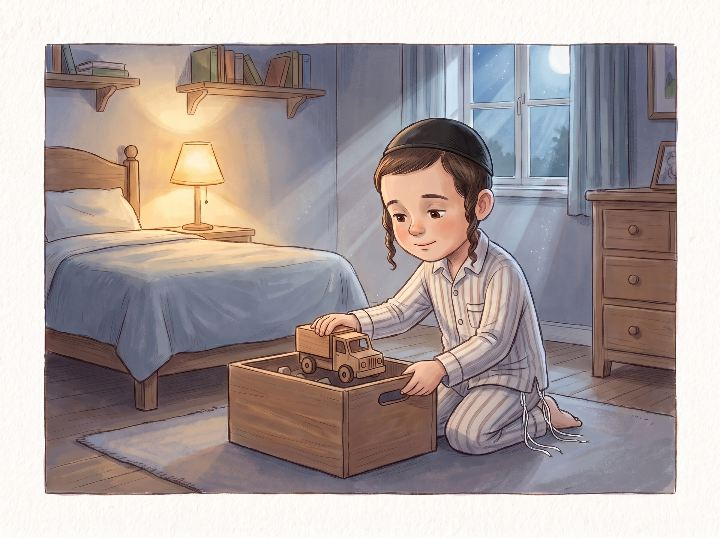
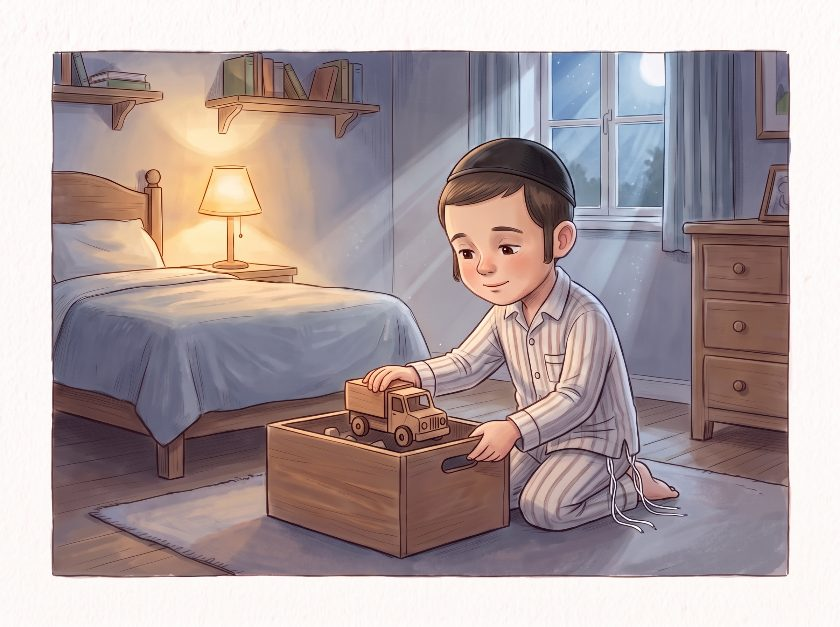
Compact Halacha lessons and enable Chabad picture/text scrapbook reuse (#189)
* Replace long-peyos illustrations with Chabad boys and visible tzitzis

* Collapse full Kitzur by default and add compact lesson navigation and scrapbook phrase actions

* Allow Halacha scene pictures and captions to be added to scrapbook

* Compact Halacha heading and hide complete Kitzur until clicked

* Compact picture cards and scrapbook copy actions

* Load updated compact Halacha lesson and fresh Chabad art rather than stale caches

* Cache-bust the compact Halacha stylesheet

* Cover scene-to-scrapbook actions and new image cache version

* Regress default-closed Kitzur and compact scene-to-scrapbook workflow

diff --git a/halacha/seif-a-teacher-led.js b/halacha/seif-a-teacher-led.js
@@ -47,42 +47,64 @@
       window.add(ROOT_ID, 'textbox', `<div class="tb-text" contenteditable="true" data-ph="Edit your title">${escapeText(title)}</div>`);
     }
   }
+  function addScrapbookText(value, rightToLeft) {
+    if (typeof HALACHA_TEACHER_VIEW !== 'undefined' && HALACHA_TEACHER_VIEW) return;
+    if (typeof window.add !== 'function') return;
+    const phrase = escapeText(String(value || '').trim());
+    if (!phrase) return;
+    const rtl = rightToLeft ? ' dir="rtl" lang="he"' : '';
+    const e = window.add(ROOT_ID, 'textbox', '<div class="tb-text" contenteditable="true"'+rtl+'>'+phrase+'</div>');
+    if (e) {
+      e.classList.add('hal-lesson-text-piece');
+      e.style.width = '280px';
+      if (typeof window.persist === 'function') window.persist(ROOT_ID);
+    }
+  }
   function start() {
     const section = document.getElementById(ROOT_ID);
     if (!section || section.querySelector('.hal-a-panel')) return;
     if (!document.querySelector('link[data-hal-a-style]')) {
       const stylesheet = document.createElement('link');
       stylesheet.rel = 'stylesheet';
-      stylesheet.href = 'seif-a-teacher-led.css?v=20261018-2';
+      stylesheet.href = 'seif-a-teacher-led.css?v=20261019-compact1';
       stylesheet.dataset.halAStyle = 'true';
       document.head.appendChild(stylesheet);
     }
     const panel = make('section', 'hal-a-panel');
     panel.setAttribute('aria-label', 'Learn Siman Aleph Seif Aleph with your teacher');
     const heading = make('div', 'hal-a-heading');
-    const title = make('h2', '', 'סִימָן א׳ · סְעִיף א׳ — Learn Together');
-    const hide = button('Hide Activity · Make room for my scrapbook', () => {
+    const title = make('h2', '', 'סִימָן א׳ · סְעִיף א׳');
+    const hide = button('Hide lesson', () => {
       const collapsed = panel.classList.toggle('hal-a-collapsed');
-      hide.textContent = collapsed ? 'Show / Review Activity' : 'Hide Activity · Make room for my scrapbook';
+      hide.textContent = collapsed ? 'Show lesson' : 'Hide Activity · Make room for my scrapbook';
       hide.setAttribute('aria-expanded', String(!collapsed));
       try { sessionStorage.setItem('halacha-learning-hidden:a:' + (document.body.classList.contains('teacherMode') ? 'teacher' : 'student'), String(collapsed)); } catch (_) {}
     });
     hide.setAttribute('aria-expanded', 'true');
-    heading.append(title, hide);
+    const jumps = make('nav', 'hal-a-jumps');
+    jumps.setAttribute('aria-label', 'Jump to Halacha section');
+    jumps.append(
+      button('🖼 Pictures', () => section.querySelector('.hal-story-gallery, .hal-a-scenarios')?.scrollIntoView({behavior:'smooth',block:'start'})),
+      button('🎨 Scrapbook', () => section.querySelector('.work')?.scrollIntoView({behavior:'smooth',block:'start'}))
+    );
+    heading.append(title, jumps, hide);
     panel.appendChild(heading);
 
     const body = make('div', 'hal-a-body');
     const source = make('div', 'hal-a-source');
     const reading = document.createElement('details');
     reading.className = 'hal-a-reading';
-    reading.open = true;
-    const readingTitle = make('summary', '', 'Read the complete seif with your teacher');
+    reading.open = false;
+    const readingTitle = make('summary', '', '📖 Full Kitzur text — click to read');
     const fullText = make('p', 'hal-a-full-text', sourceText);
     fullText.lang = 'he';
     fullText.dir = 'rtl';
     reading.append(readingTitle, fullText);
+    source.appendChild(make('p', 'hal-a-short-intro', 'Remembering Hashem helps us speak and behave carefully — at home, outside and when alone.'));
     source.appendChild(reading);
-
+    const useThought = button('＋ Put this idea in my scrapbook', () => addScrapbookText('Remembering Hashem helps me act with care wherever I am.'));
+    useThought.classList.add('hal-a-add-text');
+    source.appendChild(useThought);
     source.append(make('h3', '', 'Important phrases — tap a word to see its meaning'));
     const phraseList = make('div', 'hal-a-phrase-list');
     for (const phrase of phrases) {
@@ -105,6 +127,9 @@
         words.appendChild(chip);
       }
       details.appendChild(words);
+      const savePhrase = button('＋ Add this phrase to my scrapbook', () => addScrapbookText(phrase.he, true));
+      savePhrase.classList.add('hal-a-add-text');
+      details.appendChild(savePhrase);
       phraseList.appendChild(details);
     }
     source.appendChild(phraseList);
@@ -114,7 +139,9 @@
     quiz.setAttribute('aria-labelledby', 'hal-a-question-title');
     const qTitle = make('h3', '', 'Which picture shows the lesson?');
     qTitle.id = 'hal-a-question-title';
-    quiz.append(qTitle, make('p', 'hal-a-note', 'We try to act thoughtfully at home and at school, even when we are alone.'));
+    const quizBody = make('details', 'hal-a-quiz-details');
+    quizBody.appendChild(make('summary', '', '❓ Try a picture question'));
+    quizBody.append(qTitle, make('p', 'hal-a-note', 'We try to act thoughtfully at home and at school, even when we are alone.'));
     const feedback = make('p', 'hal-a-feedback', '');
     feedback.setAttribute('role', 'status');
     feedback.setAttribute('aria-live', 'polite');
@@ -136,11 +163,12 @@
       choice.append(art, make('span', 'hal-a-choice-label', `Picture ${index + 1}`));
       choices.appendChild(choice);
     });
-    quiz.append(choices, feedback);
+    quizBody.append(choices, feedback);
+    quiz.appendChild(quizBody);
     body.appendChild(quiz);
 
-    const prompt = make('section', 'hal-a-prompts');
-    prompt.append(make('h3', '', 'Choose a scrapbook title'));
+    const prompt = make('details', 'hal-a-prompts');
+    prompt.appendChild(make('summary', '', '✏ Add a title to my scrapbook'));
     prompt.append(make('p', 'hal-a-note', 'Pick a title and edit it on your page, or write your own. Your artwork stays yours to create.'));
     const menu = make('div', 'hal-a-prompt-grid');
     ideas.forEach(idea => menu.appendChild(button(idea, () => addTitle(idea))));

diff --git a/halacha/illustrated-seif-a.js b/halacha/illustrated-seif-a.js
@@ -30,7 +30,7 @@
   }
   function image(file, alt, cls) {
     var im = node('img', cls || '');
-    im.src = file + '?v=20261018-art2';
+    im.src = file + '?v=20261019-chabad1';
     im.alt = alt;
     im.loading = 'lazy';
     im.decoding = 'async';
@@ -38,6 +38,31 @@
   }
   function isReadonly() {
     return typeof HALACHA_TEACHER_VIEW !== 'undefined' && !!HALACHA_TEACHER_VIEW;
+  }
+  function sayAdded(label) {
+    var status = document.querySelector('.hal-art-status');
+    if (status) status.textContent = 'Added ' + label + ' to your scrapbook ✓';
+  }
+  function addPicture(file, label) {
+    if (isReadonly() || typeof window.add !== 'function') return;
+    var markup = '<img src="' + file + '?v=20261019-chabad1" alt="' + htmlEscape(label) + '">';
+    var piece = window.add('a', 'photo', markup, 0);
+    if (piece) {
+      piece.classList.add('hal-illustrated-piece', 'studio-sticker');
+      piece.style.width = '175px';
+      if (typeof window.persist === 'function') window.persist('a');
+      sayAdded(label + ' picture');
+    }
+  }
+  function addWords(words) {
+    if (isReadonly() || typeof window.add !== 'function') return;
+    var piece = window.add('a', 'textbox', '<div class="tb-text" contenteditable="true">' + htmlEscape(words) + '</div>', 0);
+    if (piece) {
+      piece.classList.add('hal-lesson-text-piece');
+      piece.style.width = '260px';
+      if (typeof window.persist === 'function') window.persist('a');
+      sayAdded('words');
+    }
   }
   function installArt() {
     var section = document.getElementById('a');
@@ -58,15 +83,44 @@
       info.appendChild(node('strong', '', item.title));
       info.appendChild(node('span', '', item.caption));
       card.appendChild(info);
+      var actions = node('div', 'hal-story-actions');
+      var useImage = node('button', 'hal-story-use', '＋ Picture');
+      useImage.type = 'button';
+      useImage.disabled = isReadonly();
+      useImage.setAttribute('aria-label', 'Add ' + item.title + ' picture to scrapbook');
+      useImage.addEventListener('click', function () { addPicture(SCENE_BASE + item.file + '.jpg', item.title); });
+      var useWords = node('button', 'hal-story-use', '＋ Words');
+      useWords.type = 'button';
+      useWords.disabled = isReadonly();
+      useWords.setAttribute('aria-label', 'Add ' + item.caption + ' to scrapbook');
+      useWords.addEventListener('click', function () { addWords(item.caption); });
+      actions.append(useImage, useWords);
+      card.appendChild(actions);
       grid.appendChild(card);
     });
     gallery.appendChild(grid);
     galleryHost.insertBefore(gallery, galleryHost.firstChild);
+    var status = node('p', 'hal-art-status');
+    status.setAttribute('role','status');
+    status.setAttribute('aria-live','polite');
+    gallery.appendChild(status);
     // Maintain the existing correct/incorrect choice controls and their feedback.
     var choices = galleryHost.querySelectorAll('.hal-a-choice .hal-a-scene-art');
     if (choices.length >= 2) {
       choices[0].replaceChildren(image(SCENE_BASE + 'helping.jpg', 'A boy helping carefully at home'));
       choices[1].replaceChildren(image(SCENE_BASE + 'messy.jpg', 'A boy leaving toys scattered'));
+      var qHolder = galleryHost.querySelector('.hal-a-quiz-details');
+      if (qHolder) {
+        var pictureRow = node('div', 'hal-story-actions');
+        [['helping','Picture 1'], ['messy','Picture 2']].forEach(function (pair) {
+          var button = node('button', 'hal-story-use', '＋ Use ' + pair[1] + ' in scrapbook');
+          button.type = 'button';
+          button.disabled = isReadonly();
+          button.addEventListener('click', function () { addPicture(SCENE_BASE + pair[0] + '.jpg', pair[1]); });
+          pictureRow.appendChild(button);
+        });
+        qHolder.appendChild(pictureRow);
+      }
     }
     var shelf = node('section', 'hal-sticker-shelf');
     shelf.setAttribute('aria-label', 'Illustrated scrapbook stickers');
@@ -83,7 +137,7 @@
       b.setAttribute('aria-label', 'Add ' + label + ' sticker to scrapbook');
       b.addEventListener('click', function () {
         if (isReadonly() || typeof window.add !== 'function') return;
-        var tag = '<img alt="' + htmlEscape(label) + '" src="' + file + '?v=20261018-art2">';
+        var tag = '<img alt="' + htmlEscape(label) + '" src="' + file + '?v=20261019-chabad1">';
         var piece = window.add('a', 'photo', tag, 0);
         if (piece) {
           piece.classList.add('studio-sticker', 'clear', 'hal-illustrated-piece');

diff --git a/halacha/index.html b/halacha/index.html
@@ -1000,6 +1000,6 @@ window.addEventListener("afterprint",()=>{
  });
 });
 
-</script><div id="exportDlg" role="dialog" aria-label="Print or export"><div class="box"><h3>🖨 Print / PDF / Slides</h3><div><label><input type="checkbox" id="expAll" onchange="document.querySelectorAll('.expSec').forEach(c=>c.checked=this.checked)"> All sections</label><div id="expList"></div></div><div class="row"><button onclick="printSelected()">🖨 Print / Save as PDF</button><button onclick="exportSlides()">📊 Download slides</button></div><div class="row"><button class="ghost" onclick="closeExport()">Cancel</button></div><div class="msg" id="expMsg"></div><p style="margin:6px 0 0;font-size:12px;color:#567">Slides download as a PowerPoint file. To use Google Slides: upload it to Google Drive and open it with Google Slides.</p></div></div><div id="pieceCustomizer" class="piece-customizer"><div class="pc-title">Customize this piece</div><div class="pc-row"><label>Font</label><select id="pcFont" onchange="applyPieceStyle()"><option value="Arial, sans-serif">Arial</option><option value="Georgia, serif">Book</option><option value="'Comic Sans MS', cursive">Playful</option><option value="'Trebuchet MS', sans-serif">Rounded</option><option value="'Times New Roman', serif">Classic</option></select></div><div class="pc-row"><label>Text</label><input id="pcText" type="color" value="#243746" oninput="applyPieceStyle()"><label>Background</label><input id="pcBg" type="color" value="#fff1b8" oninput="applyPieceStyle()"></div><div class="pc-row"><label>Text size</label><input id="pcFontSize" type="range" min="12" max="42" value="18" oninput="applyPieceStyle()"><span id="pcFontSizeVal">18</span></div><div class="pc-row"><button onclick="transparentPiece()">No background</button><button onclick="resetPieceStyle()">Reset</button><button onclick="closeCustomizer()">Done ✓</button></div></div><link rel="stylesheet" href="illustrated-seif-a.css?v=20261018-art3"><script src="seif-a-teacher-led.js?v=20261018-1"></script><script src="scrapbook-editor.js?v=20261012-studio-shapes-5"></script><script src="illustrated-seif-a.js?v=20261018-art3"></script><script src="gallery.js?v=20261007-tab-login"></script><script defer src="../class-pointer-prototype/activity-share.js?v=20261018-myscreen175"></script>
+</script><div id="exportDlg" role="dialog" aria-label="Print or export"><div class="box"><h3>🖨 Print / PDF / Slides</h3><div><label><input type="checkbox" id="expAll" onchange="document.querySelectorAll('.expSec').forEach(c=>c.checked=this.checked)"> All sections</label><div id="expList"></div></div><div class="row"><button onclick="printSelected()">🖨 Print / Save as PDF</button><button onclick="exportSlides()">📊 Download slides</button></div><div class="row"><button class="ghost" onclick="closeExport()">Cancel</button></div><div class="msg" id="expMsg"></div><p style="margin:6px 0 0;font-size:12px;color:#567">Slides download as a PowerPoint file. To use Google Slides: upload it to Google Drive and open it with Google Slides.</p></div></div><div id="pieceCustomizer" class="piece-customizer"><div class="pc-title">Customize this piece</div><div class="pc-row"><label>Font</label><select id="pcFont" onchange="applyPieceStyle()"><option value="Arial, sans-serif">Arial</option><option value="Georgia, serif">Book</option><option value="'Comic Sans MS', cursive">Playful</option><option value="'Trebuchet MS', sans-serif">Rounded</option><option value="'Times New Roman', serif">Classic</option></select></div><div class="pc-row"><label>Text</label><input id="pcText" type="color" value="#243746" oninput="applyPieceStyle()"><label>Background</label><input id="pcBg" type="color" value="#fff1b8" oninput="applyPieceStyle()"></div><div class="pc-row"><label>Text size</label><input id="pcFontSize" type="range" min="12" max="42" value="18" oninput="applyPieceStyle()"><span id="pcFontSizeVal">18</span></div><div class="pc-row"><button onclick="transparentPiece()">No background</button><button onclick="resetPieceStyle()">Reset</button><button onclick="closeCustomizer()">Done ✓</button></div></div><link rel="stylesheet" href="illustrated-seif-a.css?v=20261019-compact1"><script src="seif-a-teacher-led.js?v=20261019-compact1"></script><script src="scrapbook-editor.js?v=20261012-studio-shapes-5"></script><script src="illustrated-seif-a.js?v=20261019-chabad1"></script><script src="gallery.js?v=20261007-tab-login"></script><script defer src="../class-pointer-prototype/activity-share.js?v=20261018-myscreen175"></script>
 </body></html>
 

diff --git a/halacha/seif-a-teacher-led.css b/halacha/seif-a-teacher-led.css
@@ -73,3 +73,35 @@ main:has(.section.on .hal-a-panel.hal-a-collapsed){max-width:1600px}
 .section#a .hal-a-panel.hal-a-collapsed{background:#edf5ff;border:1px solid #b5d9f5;padding:10px 14px}
 @media(max-width:800px){.section#a .hal-a-source{padding:12px}.section#a .hal-a-choices{grid-template-columns:repeat(2,minmax(0,1fr))}.section#a .work{padding:7px}}
 @media(max-width:520px){.section#a .hal-a-choices{grid-template-columns:1fr}}
+
+/* Compact teacher-led lesson: keep the workspace visible without hiding actual content. */
+.section#a .hal-a-panel{margin:3px 0 8px}
+.section#a .hal-a-heading{position:sticky;top:0;z-index:28;display:flex;flex-wrap:wrap;gap:6px;padding:6px 8px;background:#f9fcfffa;border:1px solid #d7e8f6;border-radius:11px;box-shadow:0 2px 8px #2447650f}
+.section#a .hal-a-heading h2{font-size:clamp(17px,1.8vw,23px);margin:0;line-height:1.25}
+.section#a .hal-a-heading>.hal-a-btn{font-size:13px;padding:7px 10px;border-radius:9px;min-width:0}
+.section#a .hal-a-jumps{display:flex;flex-wrap:wrap;gap:6px;margin-left:auto}
+.section#a .hal-a-jumps .hal-a-btn{font-size:13px;padding:7px 10px;white-space:nowrap}
+.section#a .hal-a-source{padding:10px 12px}
+.section#a .hal-a-source:before{font-size:17px;margin:0 0 6px}
+.section#a .hal-a-short-intro{margin:0 0 6px;color:#263e58;line-height:1.4;font-size:15px}
+.section#a .hal-a-reading{margin:5px 0 7px}
+.section#a .hal-a-reading>summary{font-size:15px;padding:9px 12px}
+.section#a .hal-a-full-text{font-size:23px;line-height:1.75;padding:12px 16px}
+.section#a .hal-a-add-text{padding:6px 9px;font-size:12px;background:#eef8ff;border:1px solid #b9d7f0;color:#20516f;border-radius:8px}
+.section#a .hal-a-source>h3{font-size:17px;padding:8px 11px;margin:9px 0 0}
+.section#a .hal-a-phrase-list{padding:8px;gap:8px}
+.section#a .hal-a-phrase{padding:0 9px 8px}
+.section#a .hal-a-phrase>summary{font-size:19px;padding:7px 0;line-height:1.5}
+.section#a .hal-a-words .hal-a-btn{font-size:14px;padding:6px 8px}
+.section#a .hal-a-scenarios{padding:10px 12px;margin-top:8px}
+.section#a .hal-a-quiz-details{margin-top:7px;border-top:1px solid #c3decf;padding:8px 0 0}
+.section#a .hal-a-quiz-details>summary,.section#a .hal-a-prompts>summary{cursor:pointer;font-size:15px;font-weight:850;color:#194a68;padding:6px;list-style-position:inside}
+.section#a .hal-a-quiz-details h3{font-size:17px;margin:9px 0 5px}
+.section#a .hal-a-prompts{margin-top:8px;padding:9px 12px}
+.section#a .hal-a-prompts>summary{color:#63466d}
+.section#a .hal-a-prompts .hal-a-prompt-grid{margin-top:8px}
+.section#a .hal-a-prompts .hal-a-btn{font-size:13px;padding:7px 9px}
+.section#a .hal-a-collapsed .hal-a-heading{padding:4px 8px}
+.section#a .work{scroll-margin-top:75px}
+.section#a .hal-story-gallery{scroll-margin-top:75px}
+@media(max-width:670px){.section#a .hal-a-heading{position:relative}.section#a .hal-a-jumps{margin-left:0}.section#a .hal-a-heading h2{width:100%}.section#a .hal-a-jumps .hal-a-btn{padding:6px 8px}}

diff --git a/halacha/illustrated-seif-a.css b/halacha/illustrated-seif-a.css
@@ -30,3 +30,20 @@
 @media print {
  .section#a .hal-sticker-shelf {display:none!important}
 }
+
+/* Add a picture or its words to the student's actual scrapbook. */
+.section#a .hal-story-grid{gap:8px}
+.section#a .hal-story-gallery{margin-bottom:9px}
+.section#a .hal-story-gallery>h3{font-size:17px;margin:0 0 7px}
+.section#a .hal-story-card img{aspect-ratio:3/2;object-fit:cover}
+.section#a .hal-story-card figcaption{padding:6px 8px;gap:3px}
+.section#a .hal-story-card strong{font-size:14px}
+.section#a .hal-story-card span{font-size:12px}
+.section#a .hal-story-actions{display:flex;gap:5px;justify-content:space-evenly;flex-wrap:wrap;padding:5px 7px 8px}
+.section#a .hal-story-use{cursor:pointer;flex:1 1 auto;border:1px solid #9dc8bb;border-radius:7px;padding:6px 4px;background:#f1fff7;color:#24584c;font-size:12px;font-weight:800}
+.section#a .hal-story-use:focus-visible{outline:3px solid #f5bc55;outline-offset:2px}
+.section#a .hal-story-use:disabled{opacity:.48;cursor:not-allowed}
+.section#a .hal-art-status{font-size:13px;font-weight:700;color:#22634f;margin:5px 0 0;min-height:0}
+.section#a .hal-lesson-text-piece .tb-text{font-size:clamp(14px,1.7vw,20px);line-height:1.4;white-space:normal;overflow-wrap:anywhere}
+@media(max-width:1000px){.section#a .hal-story-grid{grid-template-columns:repeat(3,minmax(0,1fr))}}
+@media(max-width:650px){.section#a .hal-story-grid{grid-template-columns:repeat(2,minmax(0,1fr))}.section#a .hal-story-use{font-size:11px}}
